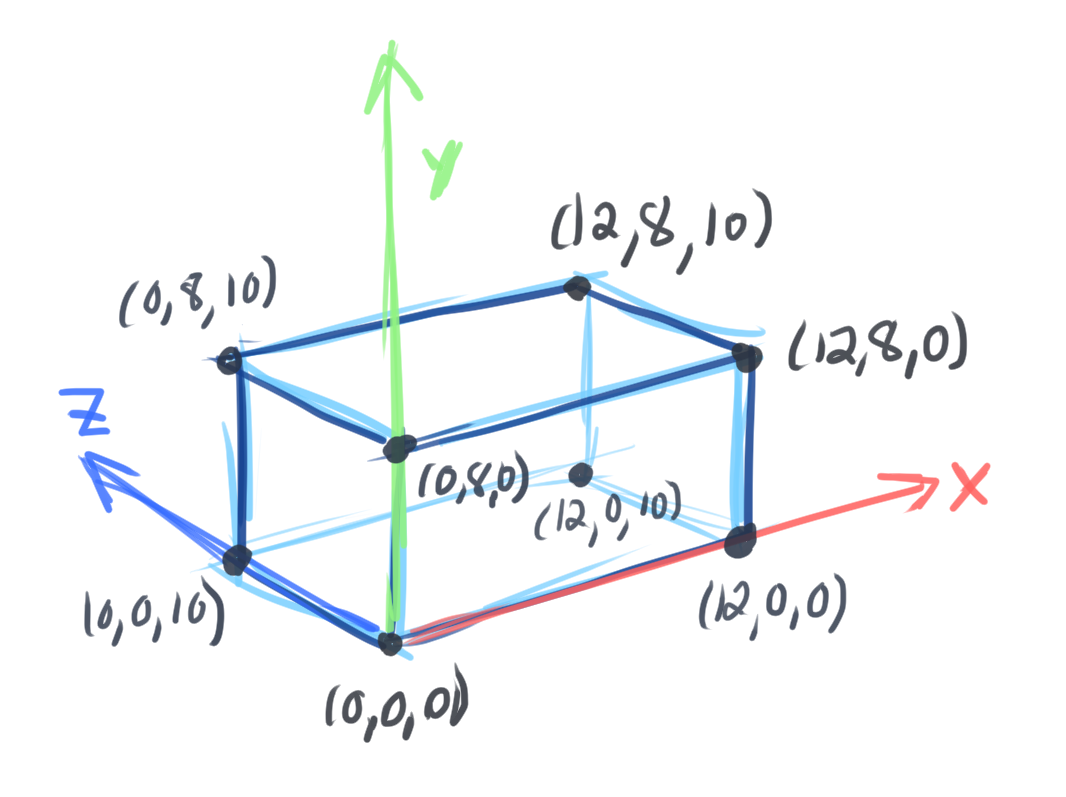
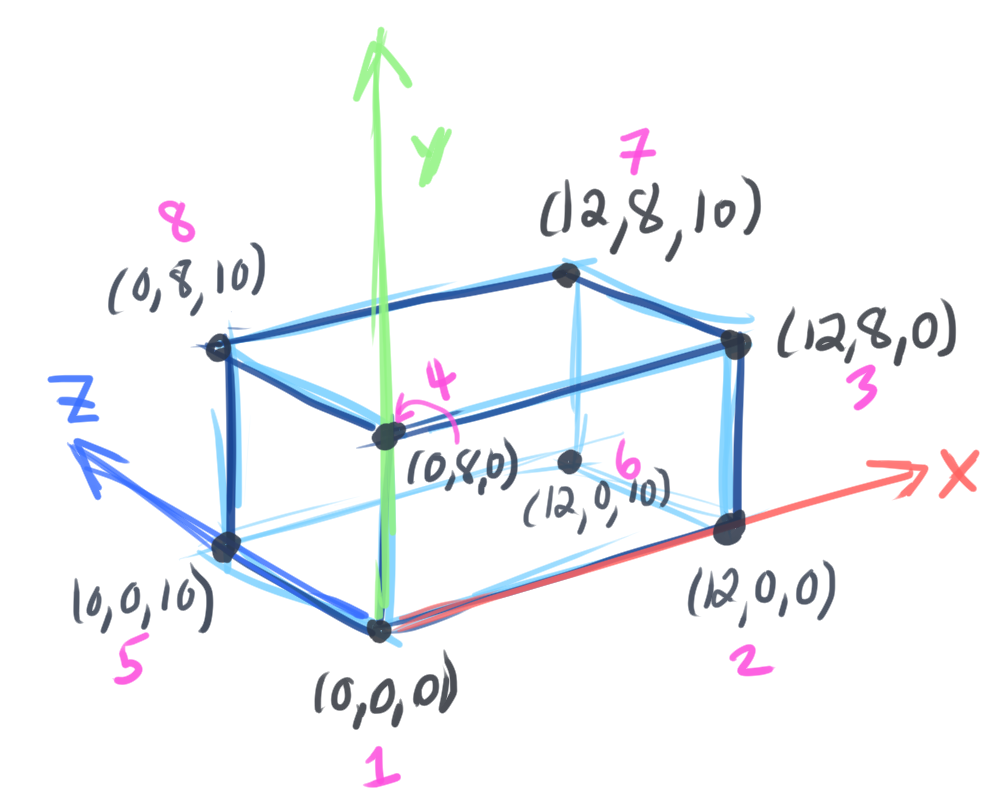
Caught up to where I read

Changed region(s): [[0.0309, 0.0301, 0.989, 0.9937], [0.1545, 0.2409, 0.2164, 0.3011]]

diff --git a/scratch-a-pixel/notes/01-introduction/README.md b/scratch-a-pixel/notes/01-introduction/README.md
@@ -17,16 +17,16 @@
 ![A box in 3D space](images/it-is-a-box.png)
 * Describe box with an array of `Point`: `Point(width, height, depth)`
 <img src="images/box-points.png" width="400px"><br>
-```
+```python
 points = [
-    Point(0, 0,  0), 
-    Point(12, 0,  0), 
-    Point(12, 8,  0), 
-    Point(0, 8,  0), 
-    Point(0, 0, 10), 
-    Point(12, 0, 10), 
-    Point(12, 8, 10), 
-    Point(0, 8, 10), 
+    Point(0, 0,  0),    # corner 1
+    Point(12, 0,  0),   # corner 2
+    Point(12, 8,  0),   # corner 3
+    Point(0, 8,  0),    # corner 4
+    Point(0, 0, 10),    # corner 5
+    Point(12, 0, 10),   # corner 6
+    Point(12, 8, 10),   # corner 7 
+    Point(0, 8, 10),    # corner 8
 ]
 ```
 💁♀ "Here you go" -> 💻
@@ -56,3 +56,50 @@ How to take 3D points and project them onto a 2D canvas.
 
 3. Connect the intersection points on the canvas. We see a 2D image!
 ![Frustum lines connect](images/frustum-lines-connect-2d.png)
+
+This coordinate system = **world coordinate system**, with origin at `(0,0,0)`.
+
+Since we moved the box from the origin, its coordinates have changed:
+```python
+points = [
+    Point(1, -1, -5)    # corner 1 
+    Point(1, -1, -3)    # corner 2
+    Point(1, 1, -5)     # corner 3
+    Point(1, 1, -3)     # corner 4
+    Point(-1, -1, -5)   # corner 5
+    Point(-1, -1, -3)   # corner 6
+    Point(-1,  1, -5)   # corner 7
+    Point(-1,  1, -3)   # corner 8
+]
+```
+Width, height, and depth can be negative!
+
+![New coordinates](images/new-coordinates.png)
+
+### How to calculate the projected coordinates on the canvas
+Move canvas 1 unit away from the origin. Looking at the side-view of our box, we can draw a triangle from the box to the origin:
+
+![Side-view of box](images/side-view.png)
+
+We want to find point `P'` because this is where one corner of the box (`corner #8`) intersects the canvas when we draw a line between `corner #8` to the origin `A`. We need `P'.y`:
+```
+P' = Point(x=0, y=P'.y, z=1)
+```
+
+We have two *similar* triangles: `ABC` and `AB'C'`. A property of **similar triangles**: the proportion of the adjacent and opposite sides are the same.
+
+![Similar triangles](images/similar-triangles.png)
+
+**Z divide**, or the **perspective divide**: the projection of the y-coordinate of a box corner `P` onto the 2D canvas is: `P.y` divided by its depth `P.z` (the z-coordinate).
+* This also applies to the x-coordinate
+  * But we need to divide `P.x`/`P.y` with `-P.z` (negative), otherwise it would compute a mirrored coordinate
+
+3D point `P(x, y, z)` -> 2D point `P'(x, y)`
+* `P'.x = P.x / -P.z`
+* `P'.y = P.y / -P.z`
+
+### Size of the canvas
+* The canvas size effects how much of the scene you see.
+* The shape is arbitrary (can rectangle, square)
+* Any points outside the canvas would not be seen in the 2D image
+    * Projected points inside the canvas = in **screen space**
